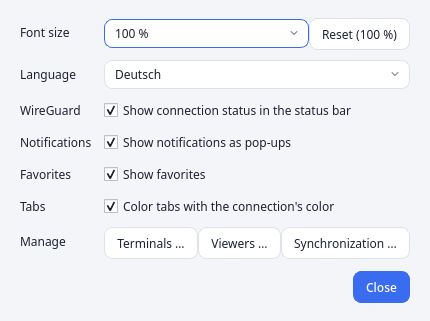
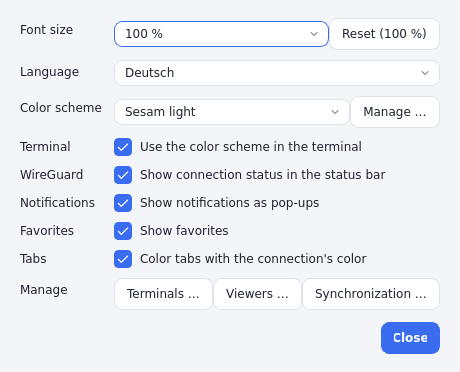
Document custom color schemes and add editor screenshots
German and English docs for the editor, import/export and sync of custom
schemes; screenshots.py gets a "farbschemas" part; settings screenshots
now show the "Verwalten …" button. Hints and preview stay visible while the
color fields scroll.

Claude-Session: https://claude.ai/code/session_01LZ7SSKaRUhv8JwSgF9M8iS

diff --git a/tools/screenshots.py b/tools/screenshots.py
@@ -33,7 +33,7 @@ from sesam.gui import style, theme  # noqa: E402
 from sesam.models import Config, Connection, Snippet, Terminal  # noqa: E402
 
 MODES = (("light", "hell"), ("dark", "dunkel"))
-PARTS = ("hauptfenster", "verbindung", "dateibrowser", "snippets", "synckonflikt", "kacheln", "reiter", "einstellungen")
+PARTS = ("hauptfenster", "verbindung", "dateibrowser", "snippets", "synckonflikt", "kacheln", "reiter", "einstellungen", "farbschemas")
 
 
 def demo_config() -> tuple[Config, dict[str, Connection]]:
@@ -210,10 +210,30 @@ def settings_dialog(cfg, conns, out: Path) -> None:
     nothing = lambda *_: None  # noqa: E731
     d = SettingsDialog(100, "de", nothing, nothing, wireguard=True, set_wireguard=nothing, toasts=True, set_toasts=nothing,
                        favorites=True, set_favorites=nothing, tab_colors=True, set_tab_colors=nothing,
-                       theme_mode="light", set_theme=nothing, terminal_scheme=True, set_terminal_scheme=nothing, open_terminals=nothing, open_viewers=nothing, open_sync=nothing)
+                       theme_mode="light", set_theme=nothing, terminal_scheme=True, set_terminal_scheme=nothing, open_terminals=nothing, open_viewers=nothing, open_sync=nothing, open_schemes=nothing)
     d.adjustSize()
     grab(d, out / "einstellungen.png")
     d.close()
+
+
+def schemes_dialog(cfg, conns, out: Path) -> None:
+    """Editor für eigene Farbschemas mit einem Beispielschema (Kopie von Dracula)."""
+    from sesam import schemes
+    from sesam.gui.schemes_dialog import SchemesDialog
+    from sesam.models import ColorScheme
+
+    nothing = lambda *_: None  # noqa: E731
+    mine = ColorScheme.from_scheme(schemes.DRACULA, "Mein Dracula")
+    mine.ui["accent"] = "#ff79c6"
+    cfg.color_schemes = [mine]
+    d = SchemesDialog(cfg, nothing, nothing, mine.id)
+    d.resize(900, 800)
+    d.show()
+    QApplication.processEvents()
+    d._timer.stop()  # nur der Dialog selbst, ohne die Oberfläche umzufärben
+    grab(d, out / "farbschemas.png")
+    d.close()
+    cfg.color_schemes = []
 
 
 def connection_dialog(cfg, conns, out: Path) -> None:
@@ -322,6 +342,8 @@ def main() -> int:
                 connection_dialog(cfg, conns, out)
             if "einstellungen" in parts and mode == "light":
                 settings_dialog(cfg, conns, out)
+            if "farbschemas" in parts and mode == "light":
+                schemes_dialog(cfg, conns, out)
             if "kacheln" in parts:
                 terminal_tiles(cfg, conns, tmp, out, label)
                 if mode == "light":

diff --git a/src/sesam/gui/schemes_dialog.py b/src/sesam/gui/schemes_dialog.py
@@ -37,7 +37,6 @@ class ColorField(QWidget):
         self._on_change = on_change
         self._value = value
         self.swatch = QPushButton()
-        self.swatch.setFixedSize(26, 22)
         self.swatch.setAutoDefault(False)
         self.swatch.setToolTip(tr("Farbe auswählen …"))
         self.swatch.clicked.connect(self._pick)
@@ -46,6 +45,7 @@ class ColorField(QWidget):
         self.edit.setMinimumWidth(72)
         self.edit.setPlaceholderText("#rrggbb")
         self.edit.setAccessibleName(label)
+        self.swatch.setFixedSize(30, self.edit.sizeHint().height())
         self.swatch.setAccessibleName(label)
         self.edit.textEdited.connect(self._edited)
         row = QHBoxLayout(self)
@@ -164,8 +164,6 @@ class SchemesDialog(QDialog):
         holder = QWidget()
         inner = QVBoxLayout(holder)
         inner.addLayout(form)
-        inner.addWidget(self.hints)
-        inner.addWidget(self.preview)
         inner.addStretch(1)
         self.editor = QScrollArea()
         self.editor.setWidgetResizable(True)
@@ -179,9 +177,13 @@ class SchemesDialog(QDialog):
         buttons.rejected.connect(self.reject)
         self.buttons = buttons
 
+        right = QVBoxLayout()  # Hinweise und Vorschau bleiben beim Scrollen der Felder sichtbar
+        right.addWidget(self.editor, 1)
+        right.addWidget(self.hints)
+        right.addWidget(self.preview)
         body = QHBoxLayout()
         body.addLayout(left, 0)
-        body.addWidget(self.editor, 1)
+        body.addLayout(right, 1)
         layout = QVBoxLayout(self)
         layout.addLayout(body, 1)
         layout.addWidget(self.use_after)

diff --git a/docs/verbindungen.md b/docs/verbindungen.md
@@ -19,7 +19,14 @@ andernfalls stellst du es manuell ein.
 *Systemvorgabe* (folgt dem Betriebssystem), *Sesam hell*, *Sesam dunkel* oder eines der bekannten Schemas *Monokai*, *Dracula*, *Nord*, *Solarized hell/dunkel*, *Gruvbox dunkel*, *One Dark* und *Tokyo Night*.
 Die Auswahl gilt sofort und wird lokal gespeichert (wird nicht per Git synchronisiert). Mit *Farbschema im Terminal verwenden* übernimmt das integrierte Terminal die Farben des Schemas (Hintergrund, Schrift, Cursor, Auswahl und die 16 ANSI-Farben);
 ausgeschaltet behält es die Standardfarben von Sesam. Die Einträge *Hell*, *Dunkel* und *Wie das System* im Menü **⋯** bleiben als Kurzwahl bestehen.
-Die Farbschemas stehen in `src/sesam/schemes.py`: Jedes besteht aus sieben Grundfarben für die Oberfläche und den Terminalfarben, alle weiteren Werte (Rahmen, Hover, Auswahl, gedämpfter Text …) werden daraus berechnet und auf ausreichenden Kontrast geprüft.
+**Eigene Farbschemas:** *Verwalten …* neben der Auswahl öffnet den Editor. Links stehen die mitgelieferten Schemas (nur lesbar) und deine eigenen; *Neu* und *Duplizieren* legen eine bearbeitbare Kopie an.
+Rechts stellst du Name, Grundlage (*Hell* oder *Dunkel*, bestimmt Titelleiste und native Elemente), die sieben Farben der Oberfläche, die vier Terminalfarben und die 16 ANSI-Farben ein, jeweils als Hex-Wert (`#rrggbb`) oder über den Farbdialog.
+Alle Änderungen sind sofort in der ganzen Oberfläche zu sehen; *Abbrechen* stellt den vorherigen Zustand wieder her. Unter den Feldern warnt Sesam bei zu geringem Kontrast von Text und Hintergrund (auch im Terminal);
+Erfolg, Warnung, Fehler und Akzent werden bei Bedarf automatisch lesbar gemacht. *Schema nach dem Speichern verwenden* wählt das bearbeitete Schema gleich aus. Wird das aktive eigene Schema gelöscht, gilt wieder *Systemvorgabe*.
+*Exportieren …* schreibt das gewählte Schema als JSON-Datei, *Importieren …* liest eine solche Datei (höchstens 64 KiB, strenge Prüfung; der Import bekommt eine neue ID, ein schon vorhandener Name wird zu „Name (2)“).
+Eigene Farbschemas werden mit dem Git-Repository synchronisiert (Ordner `schemes/`, siehe [Synchronisation](synchronisation.md)), die *Auswahl* des Schemas bleibt lokal. Fremde Formate (Windows Terminal, iTerm) werden nicht gelesen.
+![Editor für eigene Farbschemas](screenshots/farbschemas.png)
+Die mitgelieferten Farbschemas stehen in `src/sesam/schemes.py`: Jedes besteht aus sieben Grundfarben für die Oberfläche und den Terminalfarben, alle weiteren Werte (Rahmen, Hover, Auswahl, gedämpfter Text …) werden daraus berechnet und auf ausreichenden Kontrast geprüft.
 
 **Schriftgröße:** im Dialog *Einstellungen* (80 bis 200 % der Systemschrift), oder per Tastatur **Strg + Plus** (größer), **Strg + Minus** (kleiner) und **Strg + 0** (zurück auf 100 %).
 Icons und Werkzeugzeile wachsen mit. Die Einstellung gilt sofort, wird gespeichert und bleibt lokal (wird nicht per Git synchronisiert).

diff --git a/docs/en/verbindungen.md b/docs/en/verbindungen.md
@@ -19,7 +19,14 @@ otherwise you set it manually.
 *System default* (follows the operating system), *Sesam light*, *Sesam dark* or one of the well-known schemes *Monokai*, *Dracula*, *Nord*, *Solarized light/dark*, *Gruvbox dark*, *One Dark* and *Tokyo Night*.
 The choice takes effect immediately and is stored locally (it is not synchronized via Git). With *Use the color scheme in the terminal* the built-in terminal takes the scheme's colors (background, text, cursor, selection and the 16 ANSI colors);
 when off, it keeps Sesam's default colors. The *Light*, *Dark* and *Same as system* entries in the **⋯** menu remain as shortcuts.
-The schemes live in `src/sesam/schemes.py`: each consists of seven base colors for the interface plus the terminal colors; all other values (borders, hover, selection, muted text …) are derived from them and checked for sufficient contrast.
+**Custom color schemes:** *Manage …* next to the selection opens the editor. The built-in schemes (read-only) and your own are listed on the left; *New* and *Duplicate* create an editable copy.
+On the right you set the name, the base (*Light* or *Dark*, which decides the title bar and native elements), the seven interface colors, the four terminal colors and the 16 ANSI colors, each as a hex value (`#rrggbb`) or through the color dialog.
+Every change is visible in the whole interface immediately; *Cancel* restores the previous state. Below the fields Sesam warns about too little contrast between text and background (also in the terminal);
+success, warning, error and accent are made readable automatically where needed. *Use the scheme after saving* selects the edited scheme right away. If the active custom scheme is deleted, *System default* applies again.
+*Export …* writes the selected scheme as a JSON file, *Import …* reads such a file (at most 64 KiB, strict validation; the import gets a new ID and an existing name becomes “Name (2)”).
+Custom color schemes are synchronized with the Git repository (folder `schemes/`, see [Synchronization](synchronisation.md)); the *choice* of scheme stays local. Foreign formats (Windows Terminal, iTerm) are not read.
+![Editor for custom color schemes](../screenshots-en/farbschemas.png)
+The built-in schemes live in `src/sesam/schemes.py`: each consists of seven base colors for the interface plus the terminal colors; all other values (borders, hover, selection, muted text …) are derived from them and checked for sufficient contrast.
 
 **Font size:** in the *Settings* dialog (80 to 200 % of the system font), or by keyboard with **Ctrl + Plus** (larger), **Ctrl + Minus** (smaller) and **Ctrl + 0** (back to 100 %).
 Icons and toolbar grow with it. The setting applies immediately, is saved, and stays local (it is not synchronized via Git).
